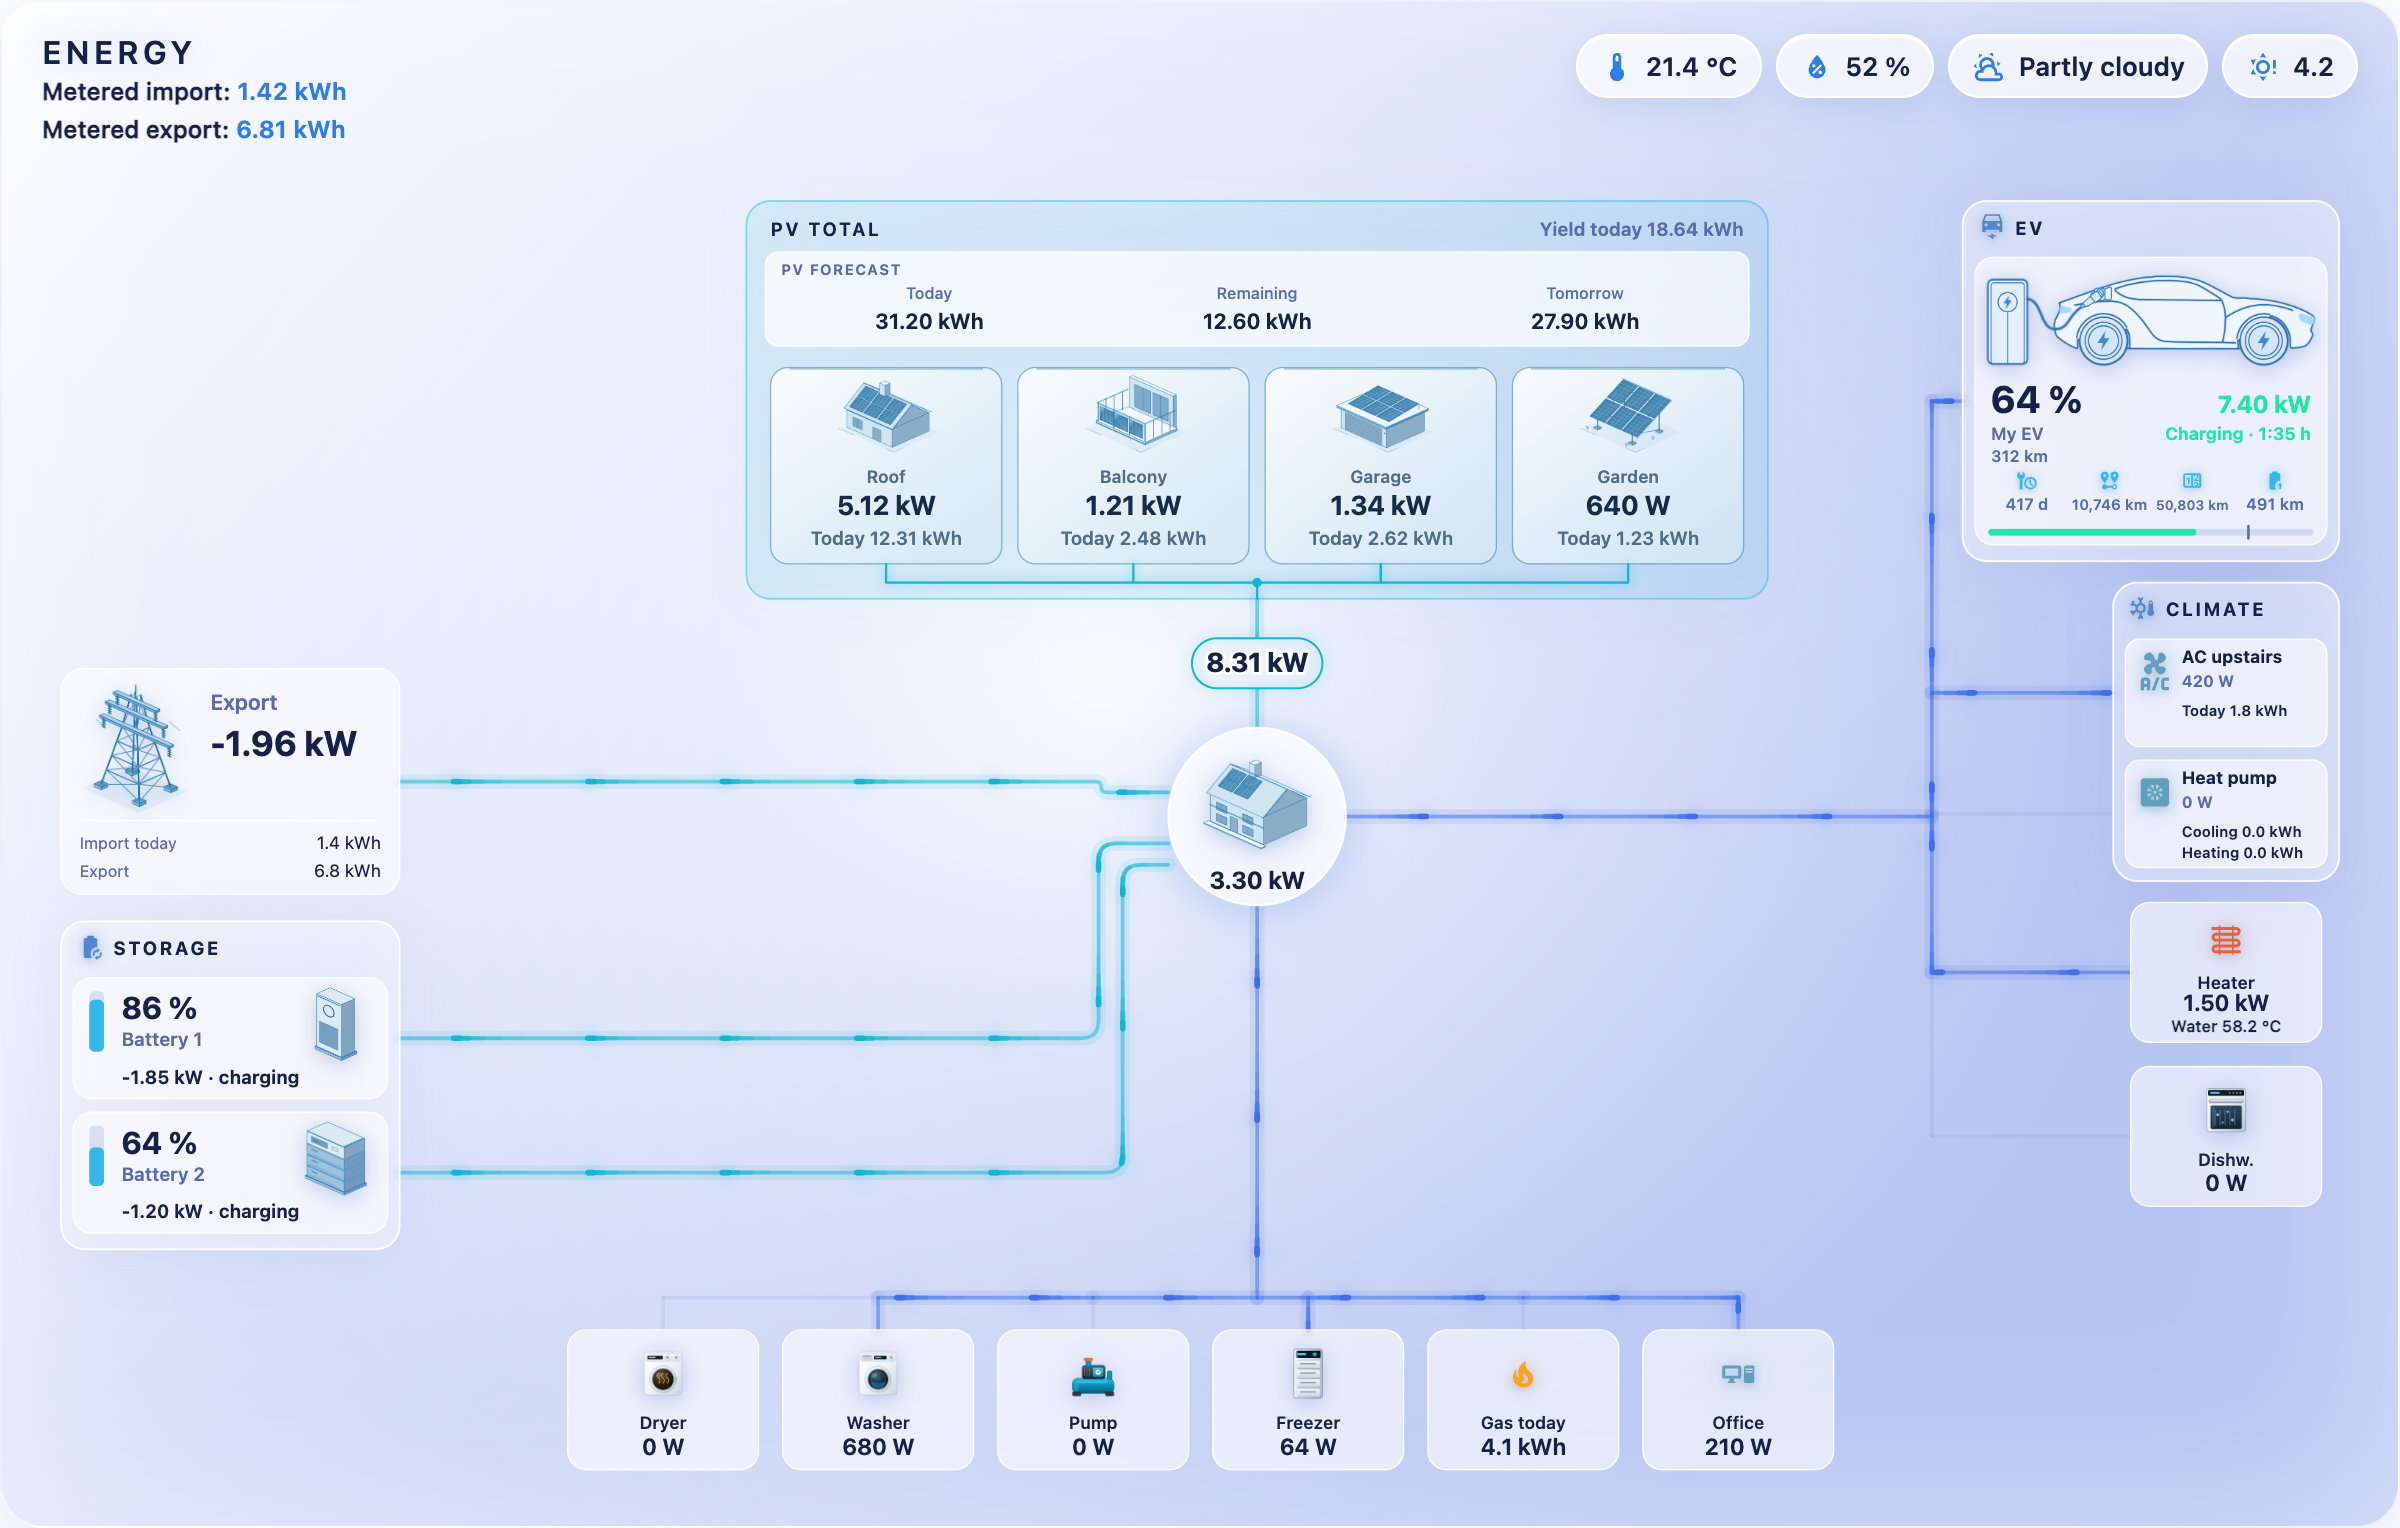
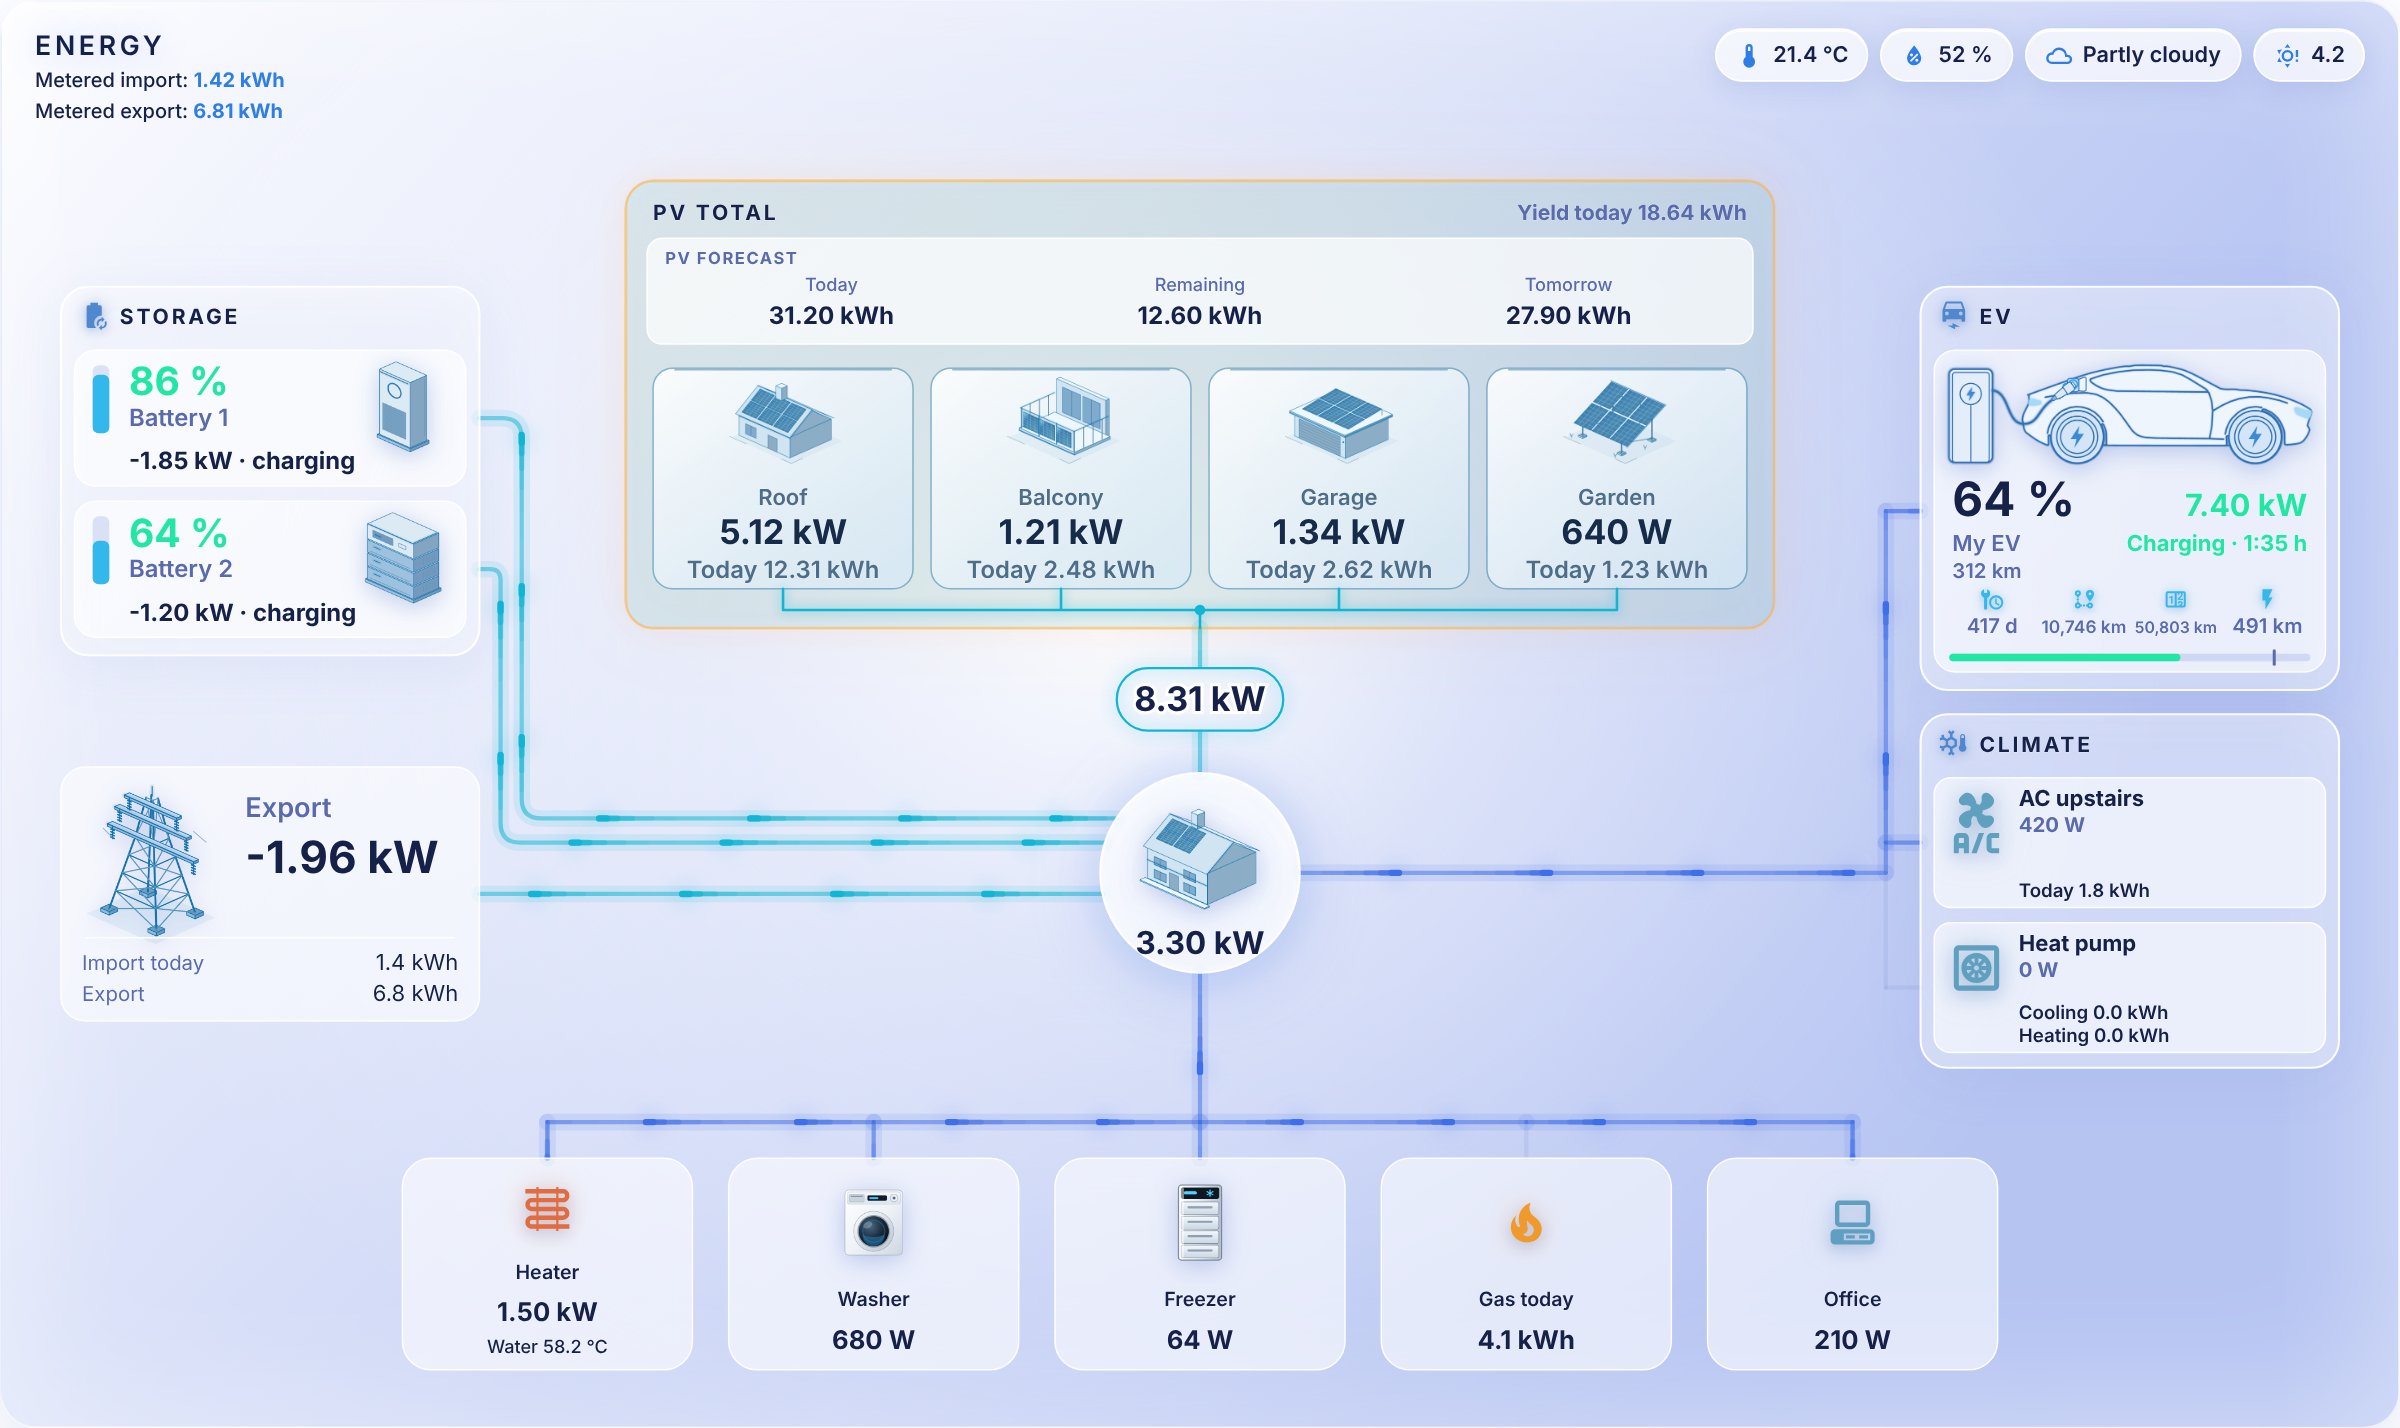
Update README screenshots to the symmetric layout
Re-render the dark, light, phone and EV screenshots (EN and DE) from the
current card. Also start the EV icon row below the vehicle text block,
which grows with the text scale and overlapped the row since 1.4.0.

Claude-Session: https://claude.ai/code/session_019yi7AVa4dSPh7k66uutcnD

diff --git a/dist/glass-energy-flow-card.js b/dist/glass-energy-flow-card.js
@@ -1941,6 +1941,8 @@ function step1Battery(x,y,w,h,b,compact) {
     const big = fz(compact ? 30 : 28, 1.25), kpi = fz(compact ? 20 : 18, 1.25), mid = fz(13, 1.25), small = fz(12, 1.2);
     const metrics = v.metricValues || [];
     const mRows = vehicleMetricRows(v, w);
+    // The text block grows with tv, so the icon row below it starts where
+    // the text ends instead of at a fixed offset.
     const textTop = y + h - 20 - mRows * 40 - Math.round(62 * tv);
     const artX = x + 8, artY = y + 8, artW = w - 16, artH = textTop - artY - 6;
     const soc = v.socValue == null ? "–" : Math.round(level) + " %";
@@ -1963,7 +1965,7 @@ function step1Battery(x,y,w,h,b,compact) {
     const line3 = tight ? [v.charging ? fmtW(v.powerValue) : range, status].filter(Boolean).join(" · ") : range;
     let row = "";
     if (metrics.length) {
-      const cols = Math.ceil(metrics.length / mRows), cw = (w - 16) / cols, mTop = textTop + 66;
+      const cols = Math.ceil(metrics.length / mRows), cw = (w - 16) / cols, mTop = textTop + Math.round(62 * tv) + 4;
       row = metrics.map((m, j) => {
         const cx = x + 8 + cw * ((j % cols) + 0.5), iy = mTop + Math.floor(j / cols) * 40;
         return `<g class="clickable" data-entity="${esc(m.entity)}">
